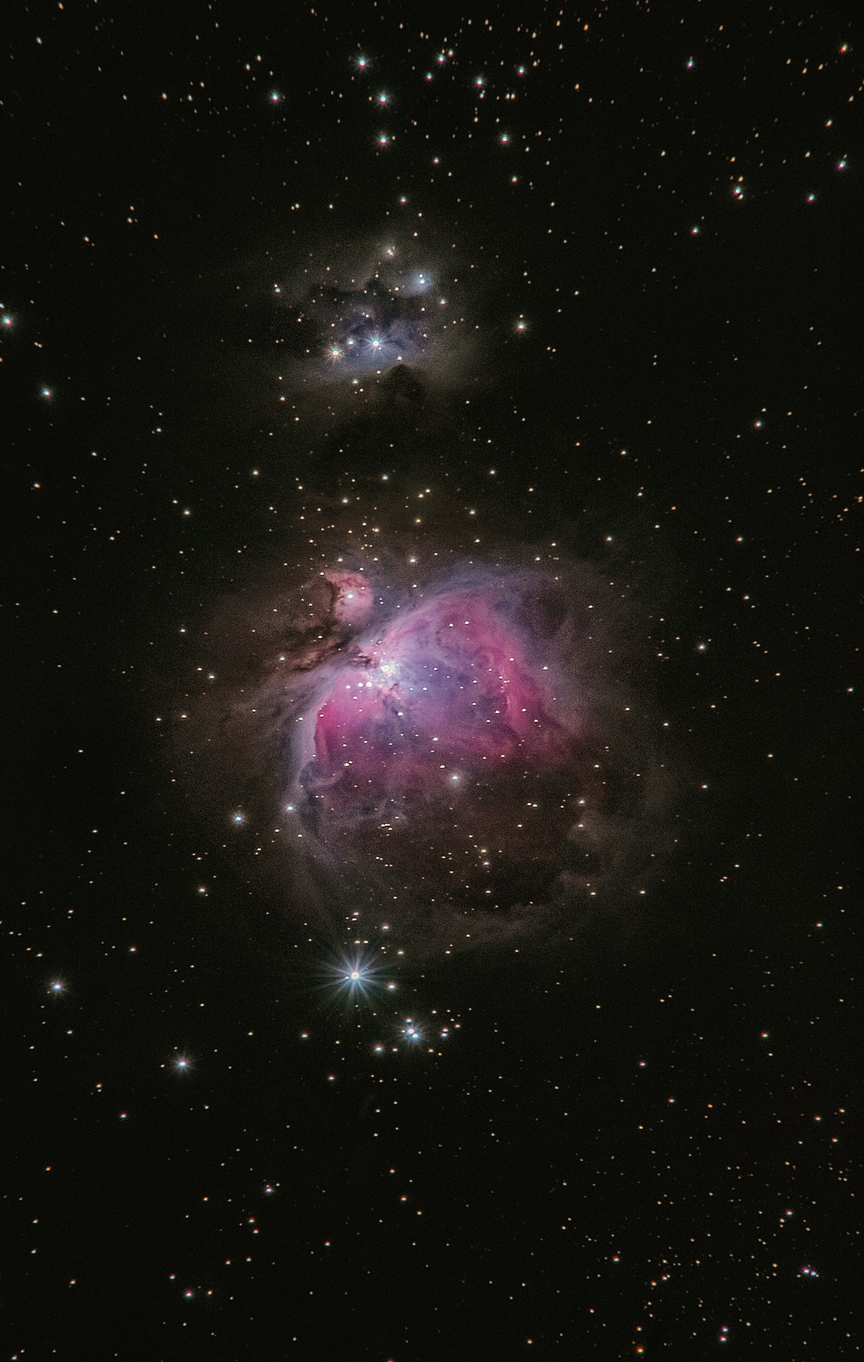
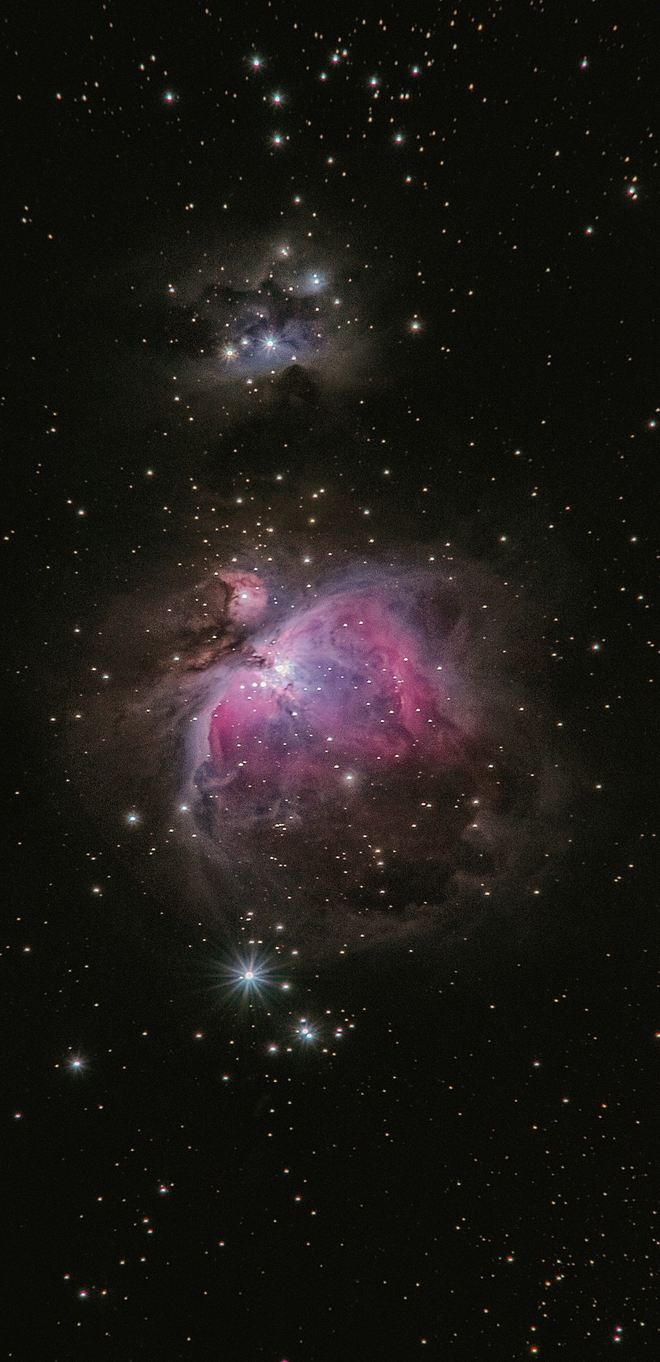
Add parallax effect
Adds parallax effect to image on contact page

diff --git a/contact.html b/contact.html
@@ -4,10 +4,14 @@
 <head>
   <meta charset="utf-8">
   <title>Contact</title>
-  <meta name="viewport" content="width=device-width, initial-scale=1">
+  <meta name="viewport" content="width=device-width, height=device-height, initial-scale=1">
   <link rel="stylesheet" href="css/style.css">
   <link href="https://fonts.googleapis.com/css2?family=Roboto:wght@400;700&display=swap" rel="stylesheet"/>
+  <link rel="icon" href="favicon.ico" type="image/x-icon" />
+  <link rel="shortcut icon" href="favicon.ico" type="image/x-icon" />
   <script src="https://www.google.com/recaptcha/api.js"></script>
+  <script src="https://ajax.googleapis.com/ajax/libs/jquery/3.6.1/jquery.min.js"></script>
+  <script src="js/script.js"></script>
 </head>
 
 <header class="header">
@@ -23,7 +27,7 @@
 <body>
   <div class="content">
     <div class="left">
-      <div class="left-img">
+      <div class="left-img parallax" id="parallax">
         <div class="hero image-overlay">
           <div class="image-overlay-text">Contact Me</div>
         </div>

diff --git a/404.html b/404.html
@@ -4,9 +4,13 @@
 <head>
   <meta charset="utf-8">
   <title>Page Not Found</title>
-  <meta name="viewport" content="width=device-width, initial-scale=1">
+  <meta name="viewport" content="width=device-width, height=device-height, initial-scale=1">
   <link rel="stylesheet" href="css/style.css">
   <link href="https://fonts.googleapis.com/css2?family=Roboto:wght@400;700&display=swap" rel="stylesheet"/>
+  <link rel="icon" href="favicon.ico" type="image/x-icon" />
+  <link rel="shortcut icon" href="favicon.ico" type="image/x-icon" />
+  <script src="https://ajax.googleapis.com/ajax/libs/jquery/3.6.1/jquery.min.js"></script>
+  <script src="js/script.js"></script>
 </head>
 
 <header class="header">

diff --git a/index.html b/index.html
@@ -4,9 +4,13 @@
 <head>
   <meta charset="utf-8">
   <title>Home</title>
-  <meta name="viewport" content="width=device-width, initial-scale=1">
+  <meta name="viewport" content="width=device-width, height=device-height, initial-scale=1">
   <link rel="stylesheet" href="css/style.css">
   <link href="https://fonts.googleapis.com/css2?family=Roboto:wght@400;700&display=swap" rel="stylesheet"/>
+  <link rel="icon" href="favicon.ico" type="image/x-icon" />
+  <link rel="shortcut icon" href="favicon.ico" type="image/x-icon" />
+  <script src="https://ajax.googleapis.com/ajax/libs/jquery/3.6.1/jquery.min.js"></script>
+  <script src="js/script.js"></script>
 </head>
 
 <header class="header">

diff --git a/css/style.css b/css/style.css
@@ -159,11 +159,15 @@ form .wide {
 
 .left-img {
     background-image: url('../images/Contact-Page-IMG.jpg');
-    background-position: bottom;
+    background-position: 50%;
     background-size: cover;
     background-repeat: no-repeat;
     width: 40vw;
     height: 100vh;
+}
+
+.parallax {
+    background-position: 50% 20%;
 }
 
 .image-overlay {
@@ -175,7 +179,7 @@ form .wide {
     position: absolute;
     top: 200px;
     left: 0;
-    background-color: rgba(0, 0, 0, 0.45);
+    background-color: rgba(0, 0, 0, 0.65);
 }
 
 /*Footer*/

diff --git a/js/script.js b/js/script.js
@@ -1,0 +1,13 @@
+function updateParallax() {
+    var pos = $(window).scrollTop();
+    var winHeight = $(window).height();
+    var docHeight = $(document).height();
+    var scrollLength = docHeight - winHeight;
+    var scrollPct = Math.min(60, pos/scrollLength * 100 * (docHeight/winHeight) * 0.5);
+
+    document.querySelectorAll('.parallax').forEach(elem => {
+        $(elem).css('backgroundPosition', '50% ' + (20 + scrollPct) + '%')
+    })
+}
+
+window.onscroll = function () {updateParallax()};
